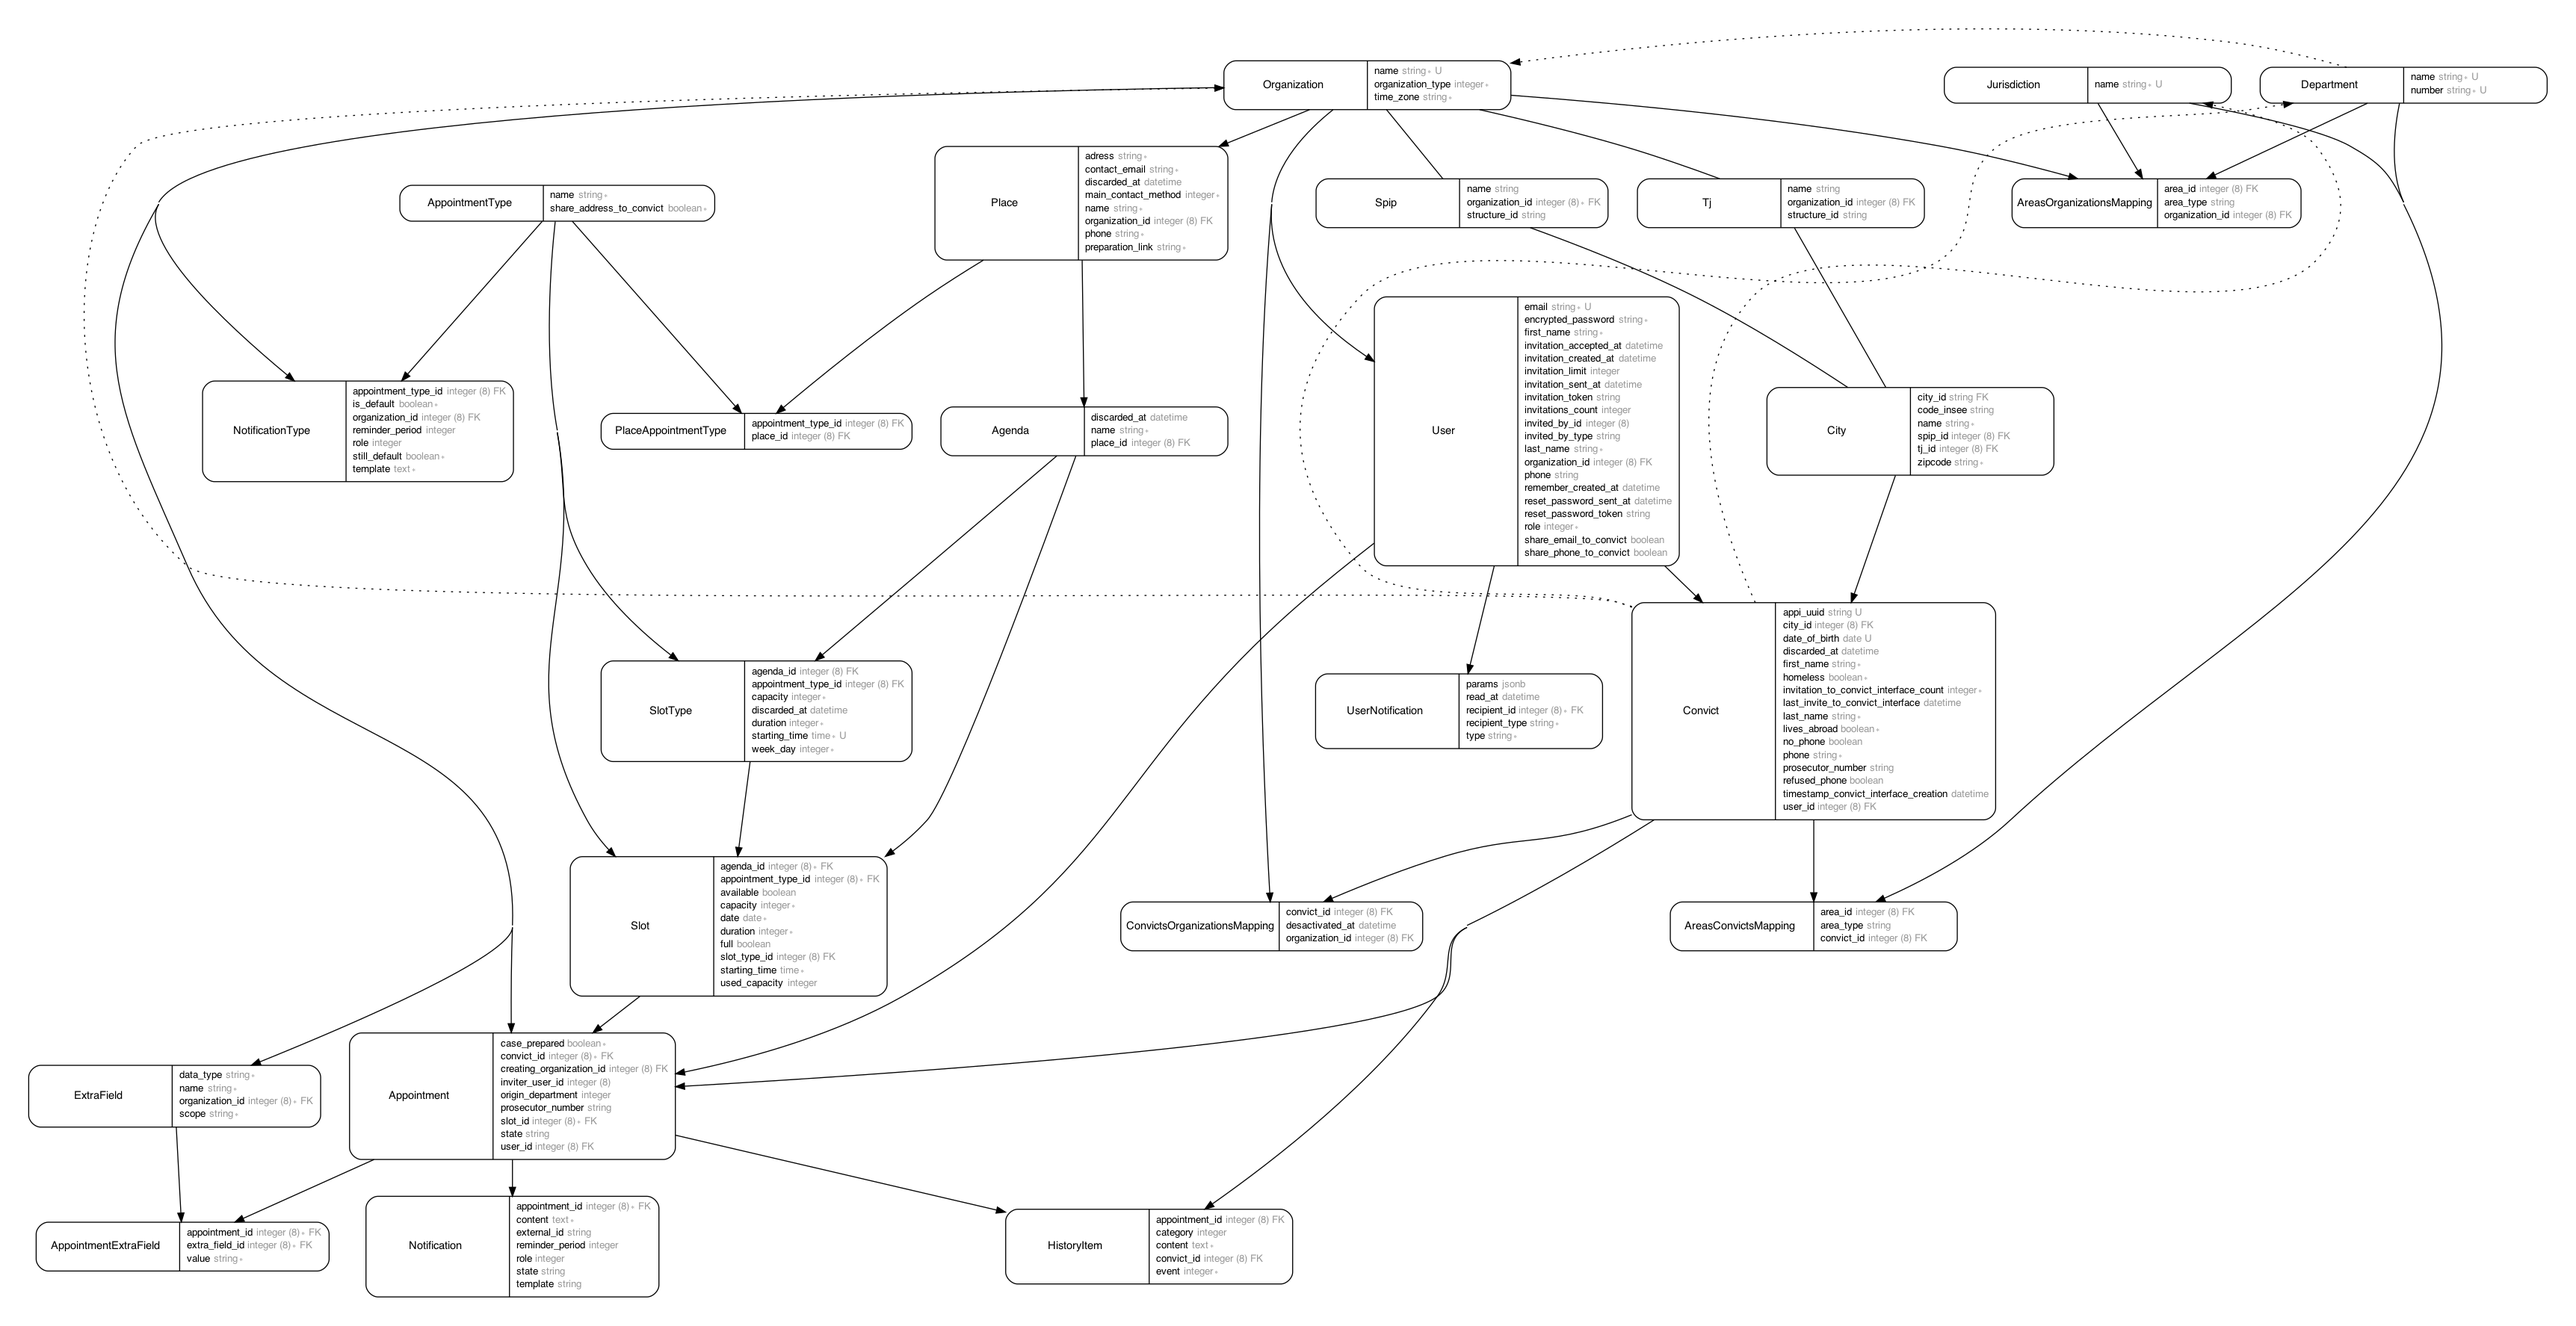
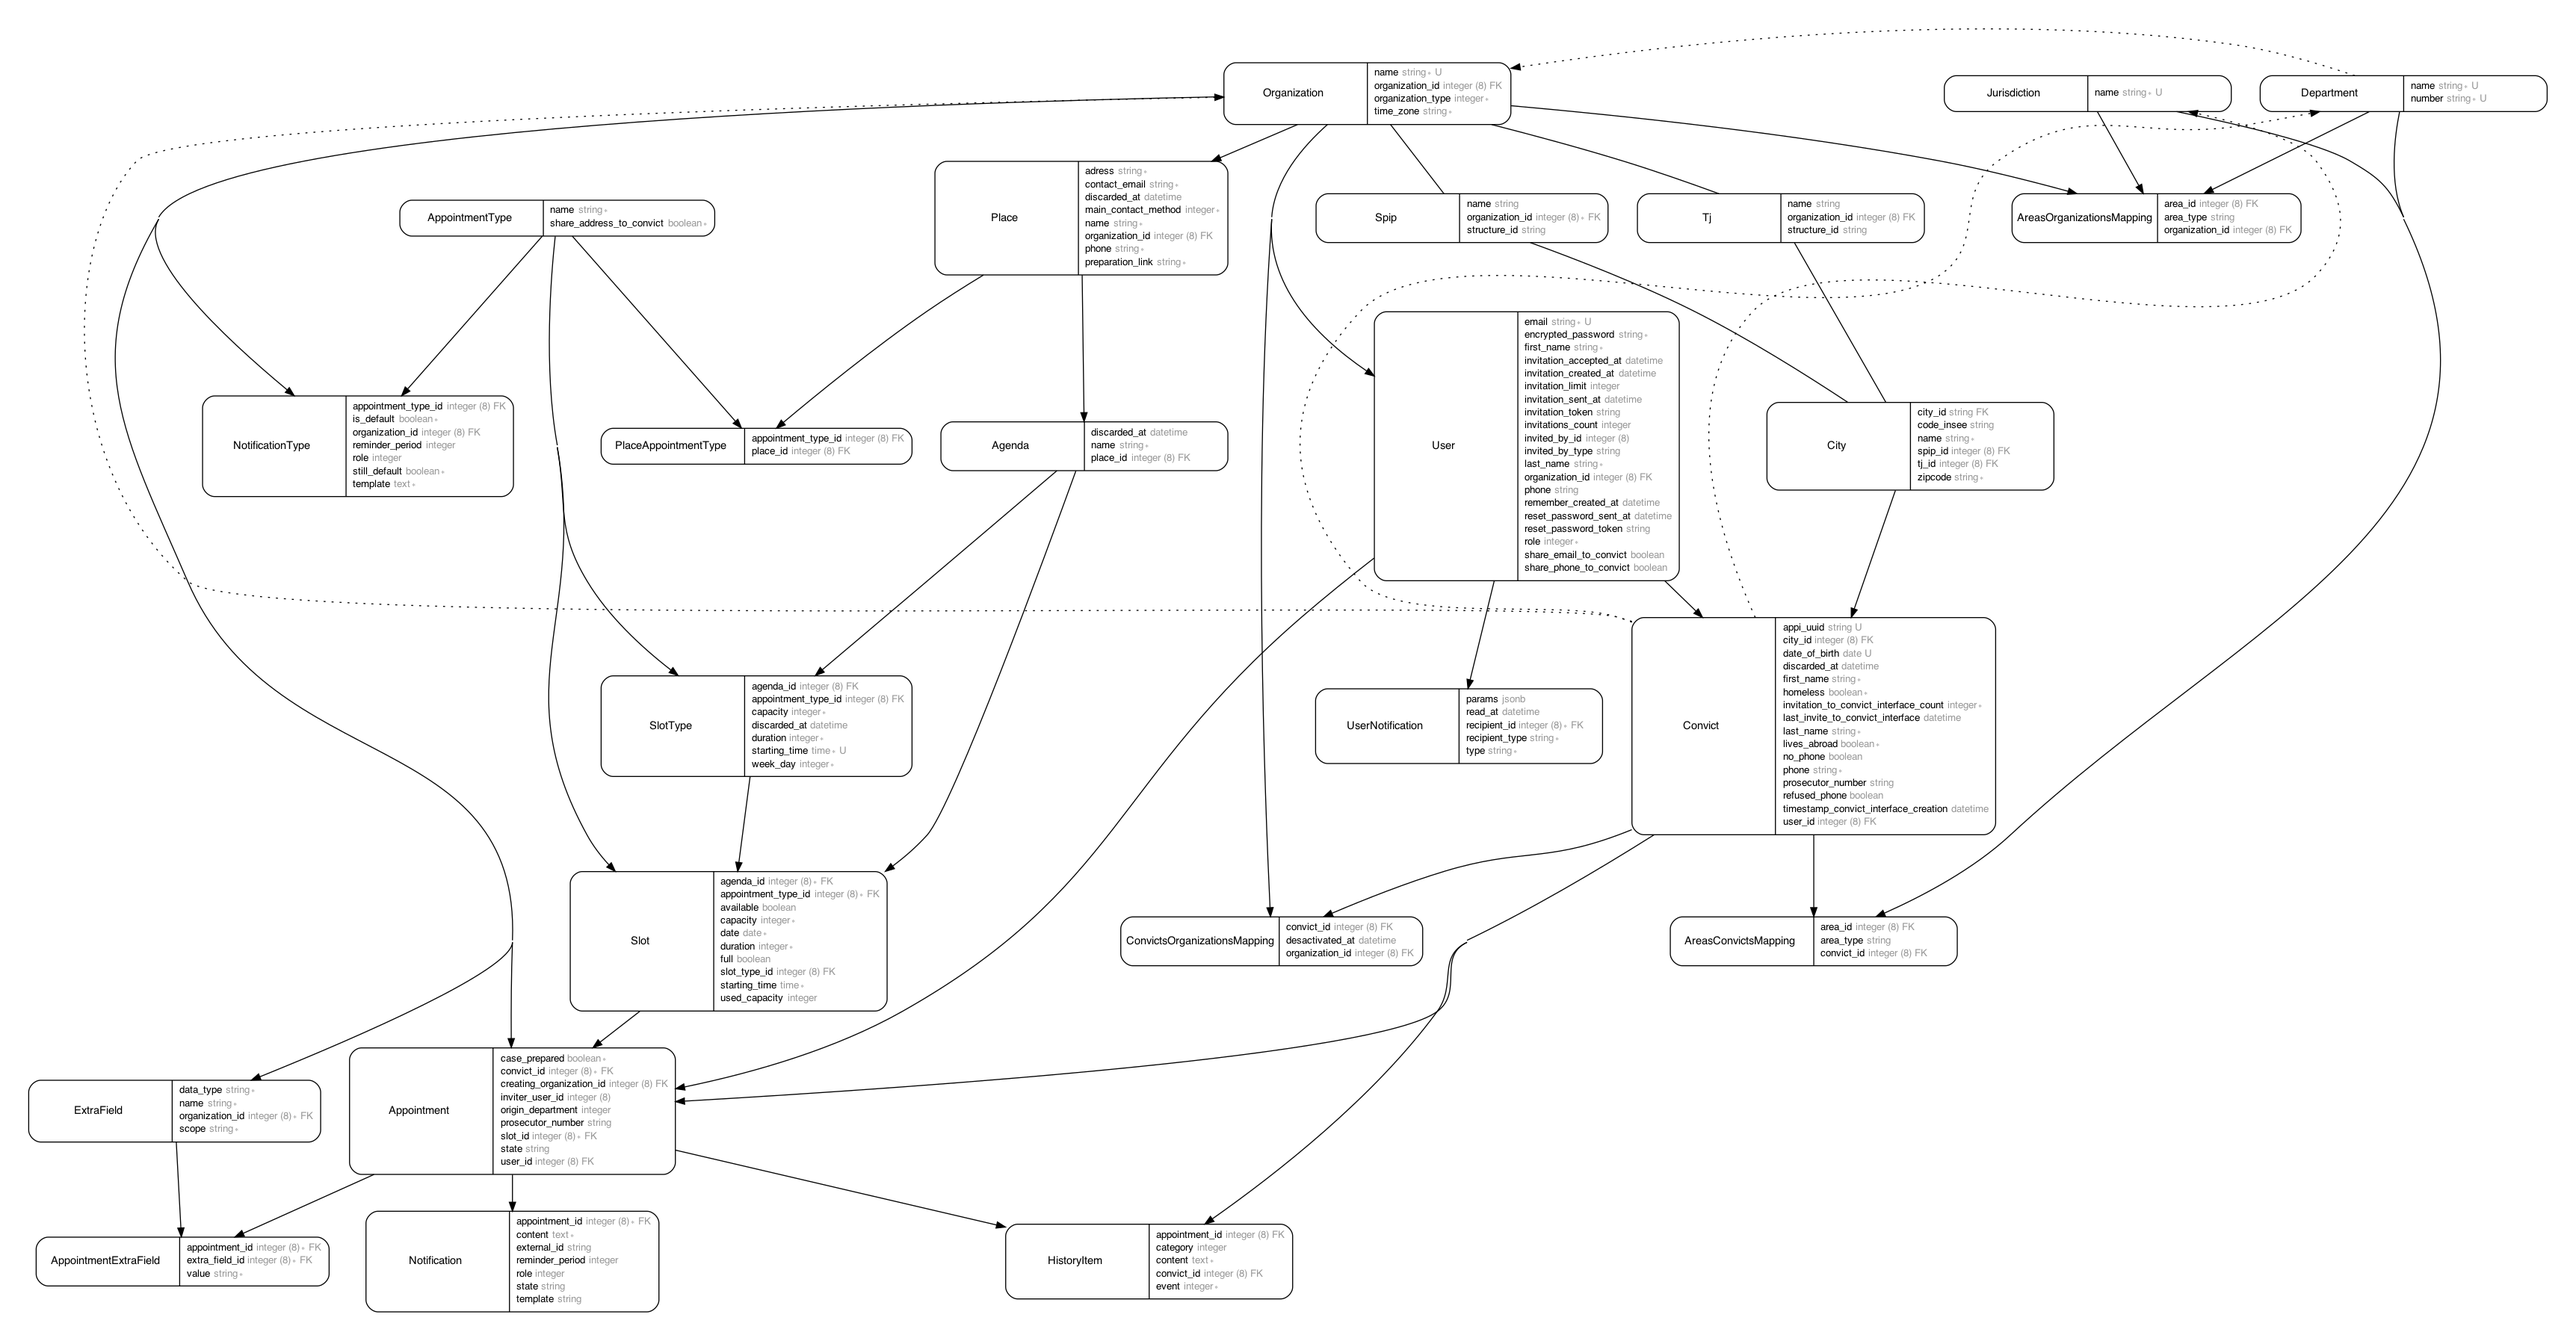
Create link between tj and spip

diff --git a/db/schema.rb b/db/schema.rb
@@ -10,7 +10,11 @@
 #
 # It's strongly recommended that you check this file into your version control system.
 
+<<<<<<< HEAD
 ActiveRecord::Schema.define(version: 2023_02_21_160236) do
+=======
+ActiveRecord::Schema.define(version: 2023_02_22_133056) do
+>>>>>>> 42848986 (Create link between tj and spip)
 
   # These are extensions that must be enabled in order to support this database
   enable_extension "plpgsql"
@@ -301,7 +305,9 @@ ActiveRecord::Schema.define(version: 2023_02_21_160236) do
     t.datetime "updated_at", precision: 6, null: false
     t.integer "organization_type", default: 0
     t.string "time_zone", default: "Europe/Paris", null: false
+    t.bigint "organization_id"
     t.index ["name"], name: "index_organizations_on_name", unique: true
+    t.index ["organization_id"], name: "index_organizations_on_organization_id"
   end
 
   create_table "place_appointment_types", force: :cascade do |t|
@@ -496,6 +502,7 @@ ActiveRecord::Schema.define(version: 2023_02_21_160236) do
   add_foreign_key "notification_types", "appointment_types"
   add_foreign_key "notification_types", "organizations"
   add_foreign_key "notifications", "appointments"
+  add_foreign_key "organizations", "organizations"
   add_foreign_key "places", "organizations"
   add_foreign_key "previous_passwords", "users"
   add_foreign_key "slot_types", "agendas"

diff --git a/app/models/organization.rb b/app/models/organization.rb
@@ -13,6 +13,7 @@ class Organization < ApplicationRecord
   abymize :extra_fields, permit: :all_attributes, limit: 4, allow_destroy: true
   has_one :tj
   has_one :spip
+  has_one :linked_organization, class_name: 'Organization'
 
   has_many :convicts_organizations_mappings
   has_many :convicts, through: :convicts_organizations_mappings
@@ -21,6 +22,7 @@ class Organization < ApplicationRecord
 
   validates :organization_type, presence: true
   validates :name, presence: true, uniqueness: true
+  validate :linked_organization_type
 
   has_rich_text :jap_modal_content
 
@@ -55,5 +57,15 @@ class Organization < ApplicationRecord
 
   def appointment_added_field_labels
     appointment_added_fields.map { |field| field['name'] }
+  end
+
+  private
+
+  def linked_organization_type
+    if organization_type.spip? && linked_organization.present? && linked_organization.organization_type != 'tj'
+      errors.add(:linked_organization, 'must be a TJ')
+    elsif organization_type.tj? && linked_organization.present? && linked_organization.organization_type != 'spip'
+      errors.add(:linked_organization, 'must be a SPIP')
+    end
   end
 end

diff --git a/db/migrate/20230222133056_add_linked_organization_ref_to_organization.rb b/db/migrate/20230222133056_add_linked_organization_ref_to_organization.rb
@@ -1,0 +1,5 @@
+class AddLinkedOrganizationRefToOrganization < ActiveRecord::Migration[6.1]
+  def change
+    add_reference :organizations, :organization, null: true, foreign_key: true
+  end
+end
